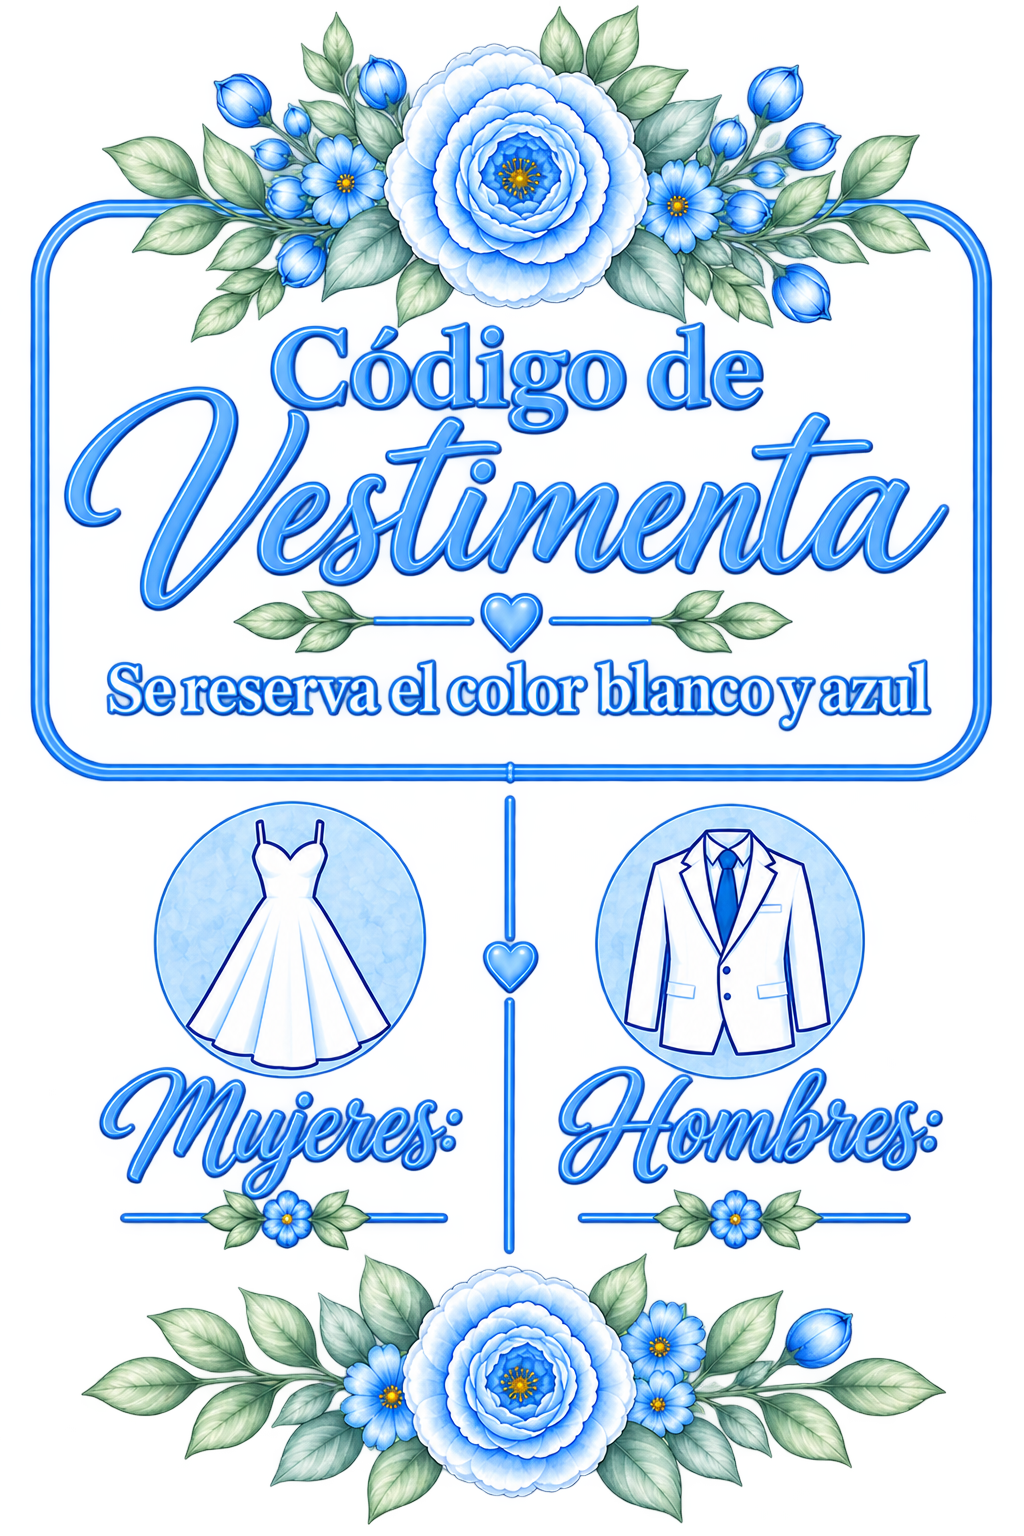
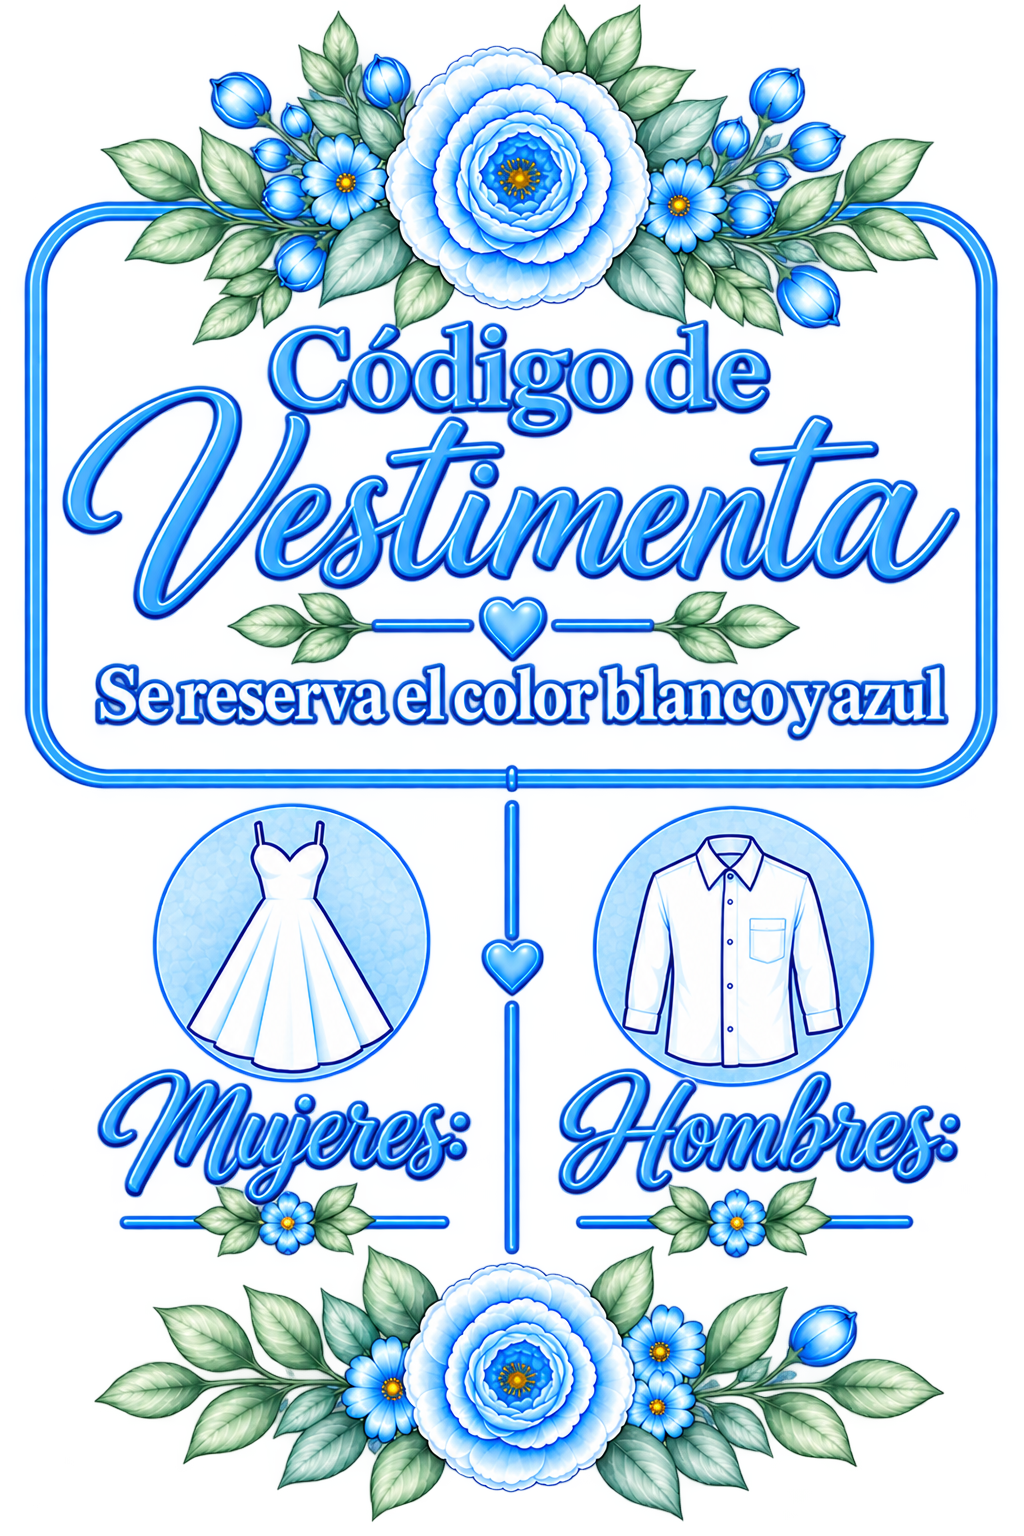
Cambios

diff --git a/src/app/crear/page.tsx b/src/app/crear/page.tsx
@@ -1,0 +1,240 @@
+"use client";
+
+import { useState, useId, useCallback, useEffect } from "react";
+import Button from "@/components/ui/Button";
+
+/** Link base fijo — no se pide al usuario. */
+const BASE_URL = "https://marcosymaira.love";
+
+/** Genera el link personalizado según nombres y cupo. */
+function buildLink(names: string, cupo: string): string {
+  const trimmedNames = names.trim();
+  const cupoNum = parseInt(cupo, 10);
+  const effectiveCupo = Number.isFinite(cupoNum) && cupoNum >= 1 ? cupoNum : 2;
+
+  const params = new URLSearchParams();
+  if (trimmedNames) params.set("invitados", trimmedNames);
+  params.set("cupo", String(effectiveCupo));
+
+  return `${BASE_URL}/?${params.toString()}`;
+}
+
+interface GeneratedLink {
+  id: number;
+  label: string;
+  url: string;
+}
+
+let idCounter = 0;
+
+export default function CrearPage() {
+  const namesId = useId();
+  const cupoId = useId();
+
+  const [names, setNames] = useState("");
+  const [cupo, setCupo] = useState("2");
+  const [generatedLink, setGeneratedLink] = useState<string>(() => buildLink("", "2"));
+  const [history, setHistory] = useState<GeneratedLink[]>([]);
+  const [copiedId, setCopiedId] = useState<number | "current" | null>(null);
+
+  /* Actualización en vivo del link mientras se escribe */
+  useEffect(() => {
+    setGeneratedLink(buildLink(names, cupo));
+  }, [names, cupo]);
+
+  const handleGenerate = useCallback(() => {
+    const url = buildLink(names, cupo);
+    setGeneratedLink(url);
+
+    const trimmed = names.trim();
+    const label = trimmed || "Invitados genéricos";
+    idCounter += 1;
+    setHistory((prev) => [{ id: idCounter, label, url }, ...prev]);
+  }, [names, cupo]);
+
+  const copyToClipboard = useCallback(
+    async (text: string, id: number | "current") => {
+      try {
+        await navigator.clipboard.writeText(text);
+        setCopiedId(id);
+        setTimeout(() => setCopiedId(null), 2000);
+      } catch {
+        /* fallback silencioso */
+      }
+    },
+    [],
+  );
+
+  const openWhatsApp = useCallback((url: string) => {
+    const message = `Te invitamos a nuestro matrimonio 💍\n${url}`;
+    const waUrl = `https://wa.me/?text=${encodeURIComponent(message)}`;
+    window.open(waUrl, "_blank", "noopener,noreferrer");
+  }, []);
+
+  return (
+    <main className="min-h-screen bg-corrugated px-4 py-10 sm:px-6 lg:px-8">
+      {/* Encabezado */}
+      <header className="mx-auto mb-10 max-w-lg text-center">
+        <p className="font-sans text-xs font-semibold uppercase tracking-[0.3em] text-envelope-deep/80">
+          Marcos &amp; Maira
+        </p>
+        <h1 className="font-script mt-1 text-4xl text-envelope-deep sm:text-5xl">
+          Generador de invitaciones
+        </h1>
+        <p className="mt-3 font-serif text-base text-navy/70 italic">
+          Crea un link personalizado para cada invitado.
+        </p>
+      </header>
+
+      {/* Tarjeta principal */}
+      <section className="mx-auto max-w-lg">
+        <div className="rounded-2xl border border-envelope-deep/20 bg-ivory shadow-[0_8px_40px_-12px_rgba(30,41,59,0.35)] px-6 py-8 sm:px-8">
+          {/* Campos del formulario */}
+          <div className="flex flex-col gap-6">
+            {/* Nombres */}
+            <div className="flex flex-col gap-1.5">
+              <label
+                htmlFor={namesId}
+                className="font-sans text-sm font-semibold text-navy"
+              >
+                Nombres de los invitados
+                <span className="ml-1 font-normal text-navy/50">
+                  (opcional)
+                </span>
+              </label>
+              <input
+                id={namesId}
+                type="text"
+                placeholder="Ej: Andrés y Dalys"
+                value={names}
+                onChange={(e) => setNames(e.target.value)}
+                className="w-full rounded-lg border border-envelope-deep/30 bg-ivory-deep px-4 py-3.5 font-serif text-lg text-navy placeholder-navy/35 outline-none transition-all duration-200 focus:border-gold focus:ring-2 focus:ring-gold/30"
+              />
+            </div>
+
+            {/* Cupo */}
+            <div className="flex flex-col gap-1.5">
+              <label
+                htmlFor={cupoId}
+                className="font-sans text-sm font-semibold text-navy"
+              >
+                Cupo
+                <span className="ml-1 font-normal text-navy/50">
+                  (personas, mínimo 1)
+                </span>
+              </label>
+              <input
+                id={cupoId}
+                type="number"
+                min={1}
+                step={1}
+                placeholder="2"
+                value={cupo}
+                onChange={(e) => setCupo(e.target.value)}
+                className="w-full rounded-lg border border-envelope-deep/30 bg-ivory-deep px-4 py-3.5 font-serif text-lg text-navy placeholder-navy/35 outline-none transition-all duration-200 focus:border-gold focus:ring-2 focus:ring-gold/30"
+              />
+            </div>
+          </div>
+
+          {/* Botón "Generar link" + guardar en historial */}
+          <div className="mt-7 flex justify-center">
+            <Button
+              variant="primary"
+              onClick={handleGenerate}
+              id="btn-generar"
+              aria-label="Generar link y guardar en el historial"
+            >
+              Generar link
+            </Button>
+          </div>
+
+          {/* Separador decorativo */}
+          <div className="my-7 flex items-center gap-3">
+            <span className="h-px flex-1 bg-envelope-deep/20" />
+            <span className="font-sans text-[10px] uppercase tracking-[0.25em] text-navy/40">
+              Link generado
+            </span>
+            <span className="h-px flex-1 bg-envelope-deep/20" />
+          </div>
+
+          {/* Recuadro del link */}
+          <div className="rounded-xl border border-gold/50 bg-kraft/40 px-4 py-4">
+            <p
+              className="break-all font-sans text-base font-medium text-navy leading-relaxed"
+              aria-live="polite"
+              aria-label="Link generado"
+            >
+              {generatedLink}
+            </p>
+          </div>
+
+          {/* Botones de acción */}
+          <div className="mt-5 flex flex-col gap-3 sm:flex-row">
+            <Button
+              variant="outline"
+              className="flex-1"
+              id="btn-copiar"
+              onClick={() => copyToClipboard(generatedLink, "current")}
+              aria-label="Copiar link al portapapeles"
+            >
+              {copiedId === "current" ? "¡Copiado! ✓" : "Copiar link"}
+            </Button>
+            <Button
+              variant="primary"
+              className="flex-1"
+              id="btn-whatsapp"
+              onClick={() => openWhatsApp(generatedLink)}
+              aria-label="Enviar link por WhatsApp"
+            >
+              WhatsApp 💬
+            </Button>
+          </div>
+        </div>
+
+        {/* Historial de la sesión */}
+        {history.length > 0 && (
+          <section aria-label="Links generados en esta sesión" className="mt-10">
+            <h2 className="mb-4 font-sans text-xs font-semibold uppercase tracking-[0.25em] text-navy/60">
+              Generados en esta sesión
+            </h2>
+            <ul className="flex flex-col gap-3">
+              {history.map((item) => (
+                <li
+                  key={item.id}
+                  className="rounded-xl border border-envelope-deep/20 bg-ivory px-4 py-4 shadow-sm"
+                >
+                  <p className="mb-1 font-sans text-xs font-semibold text-envelope-deep">
+                    {item.label}
+                  </p>
+                  <p className="mb-3 break-all font-sans text-xs text-navy/60 leading-relaxed">
+                    {item.url}
+                  </p>
+                  <div className="flex gap-2">
+                    <button
+                      type="button"
+                      id={`btn-copiar-${item.id}`}
+                      onClick={() => copyToClipboard(item.url, item.id)}
+                      className="inline-flex items-center gap-1.5 rounded-full border border-gold/50 px-4 py-1.5 font-sans text-[11px] uppercase tracking-[0.15em] text-navy transition-all duration-200 hover:bg-gold/10 active:scale-[0.97]"
+                      aria-label={`Copiar link de ${item.label}`}
+                    >
+                      {copiedId === item.id ? "¡Copiado! ✓" : "Copiar"}
+                    </button>
+                    <button
+                      type="button"
+                      id={`btn-wa-${item.id}`}
+                      onClick={() => openWhatsApp(item.url)}
+                      className="inline-flex items-center gap-1.5 rounded-full bg-navy px-4 py-1.5 font-sans text-[11px] uppercase tracking-[0.15em] text-ivory transition-all duration-200 hover:bg-navy-deep active:scale-[0.97]"
+                      aria-label={`Enviar link de ${item.label} por WhatsApp`}
+                    >
+                      WhatsApp 💬
+                    </button>
+                  </div>
+                </li>
+              ))}
+            </ul>
+          </section>
+        )}
+      </section>
+    </main>
+  );
+}

diff --git a/src/app/crear/layout.tsx b/src/app/crear/layout.tsx
@@ -1,0 +1,23 @@
+import type { Metadata } from "next";
+
+/**
+ * Metadatos de la ruta /crear.
+ * `noindex` evita que buscadores indexen esta herramienta interna.
+ */
+export const metadata: Metadata = {
+  title: "Crear invitación | Marcos & Maira",
+  description:
+    "Generador interno de links personalizados para la boda de Marcos & Maira.",
+  robots: {
+    index: false,
+    follow: false,
+  },
+};
+
+export default function CrearLayout({
+  children,
+}: {
+  children: React.ReactNode;
+}) {
+  return <>{children}</>;
+}
